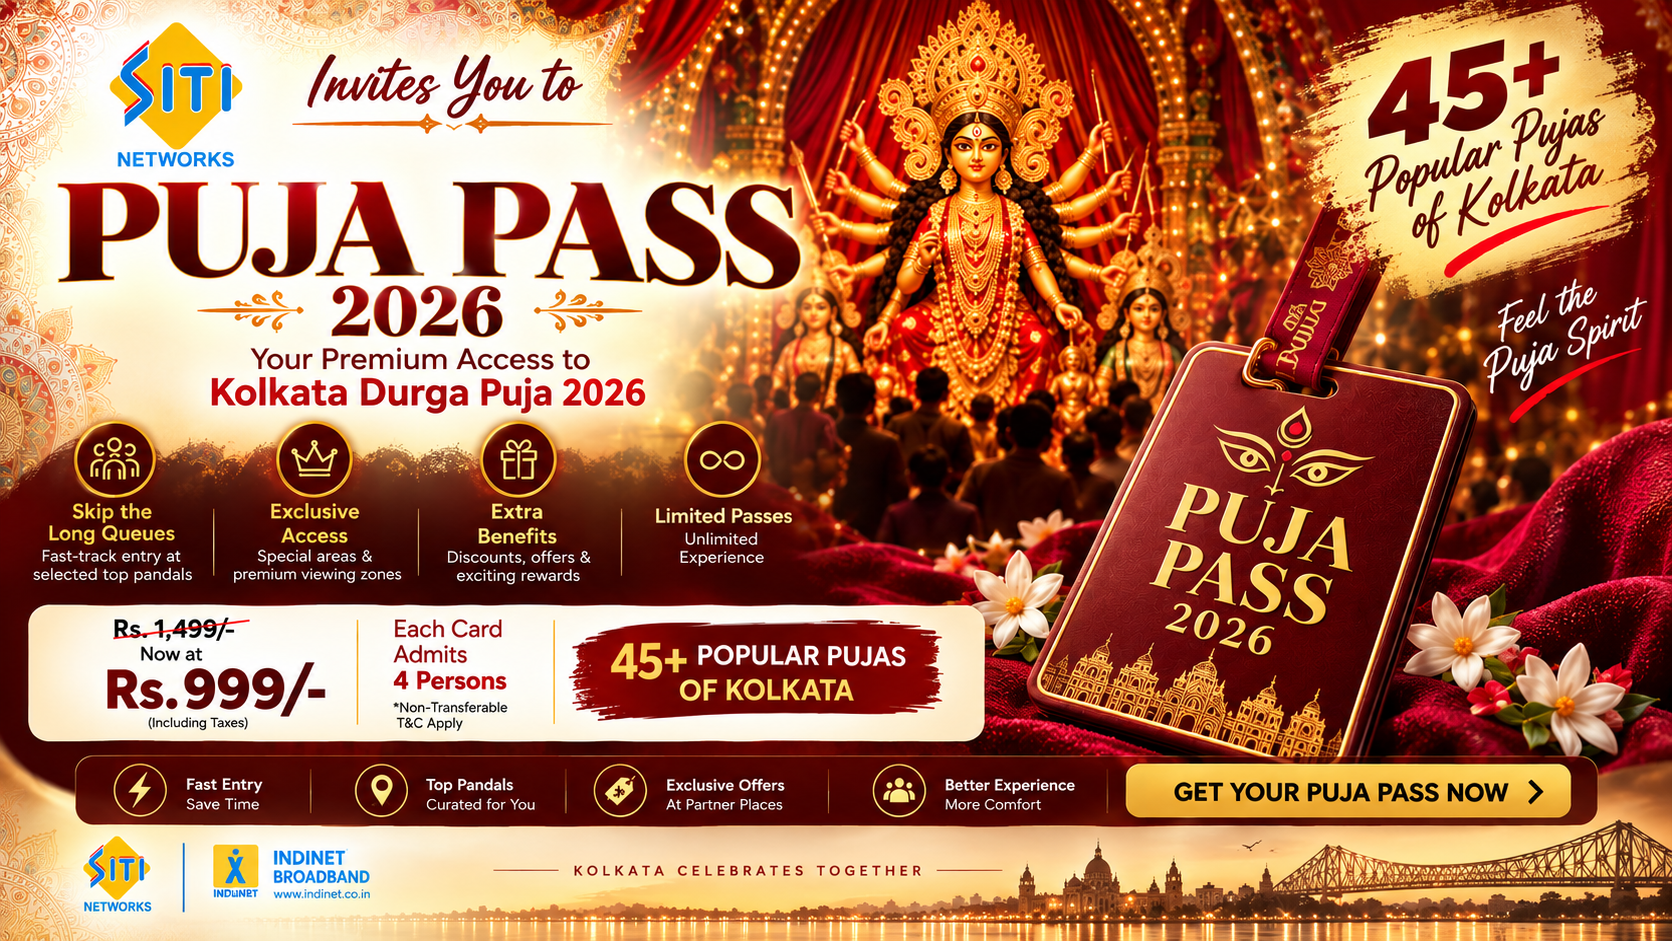
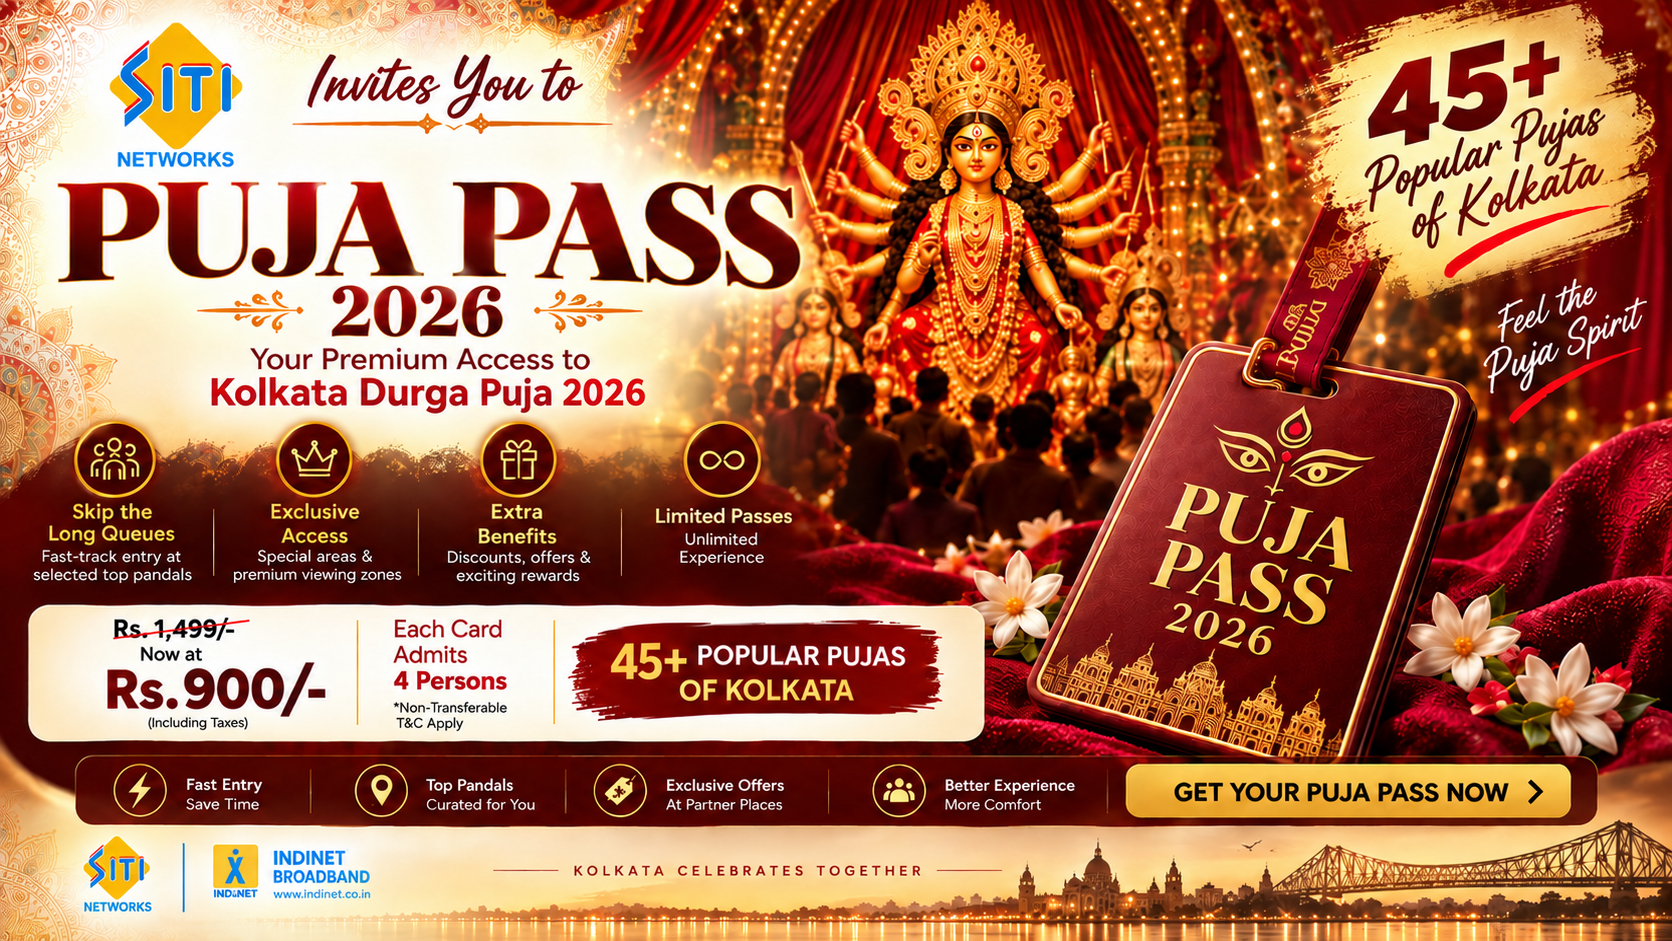
Update contact details and pass note
Replace banner and pujapass images, update advertisement contact phone, remove email contact tile, and prepend 'Important Note: ' to package collection info in My Passes screen. These changes adjust displayed contact info and clarify pass collection notes for users.

diff --git a/lib/features/advertisement/presentation/advertisement_details_screen.dart b/lib/features/advertisement/presentation/advertisement_details_screen.dart
@@ -156,15 +156,8 @@ class _AdvertisementDetailsScreenState extends State<AdvertisementDetailsScreen>
             ListTile(
               contentPadding: EdgeInsets.zero,
               leading: const CircleAvatar(backgroundColor: AppColors.saffron, child: Icon(Icons.phone, color: Colors.white)),
-              title: const Text('+91 98765 43210'),
+              title: const Text('8335918932'),
               subtitle: const Text('Call us for bookings'),
-              onTap: () {},
-            ),
-            ListTile(
-              contentPadding: EdgeInsets.zero,
-              leading: const CircleAvatar(backgroundColor: AppColors.saffron, child: Icon(Icons.email, color: Colors.white)),
-              title: const Text('ads@puja24.com'),
-              subtitle: const Text('Email us for inquiries'),
               onTap: () {},
             ),
             const SizedBox(height: 40),

diff --git a/lib/features/profile/presentation/my_passes_screen.dart b/lib/features/profile/presentation/my_passes_screen.dart
@@ -234,7 +234,7 @@ class MyPassesScreen extends ConsumerWidget {
                                       if (package.collectionInfoNote != null && package.collectionInfoNote!.isNotEmpty) ...[
                                         const SizedBox(height: 12),
                                         Text(
-                                          package.collectionInfoNote!,
+                                          'Important Note: ${package.collectionInfoNote!}',
                                           style: const TextStyle(color: Colors.redAccent, fontSize: 13, fontWeight: FontWeight.bold),
                                         ),
                                       ],
